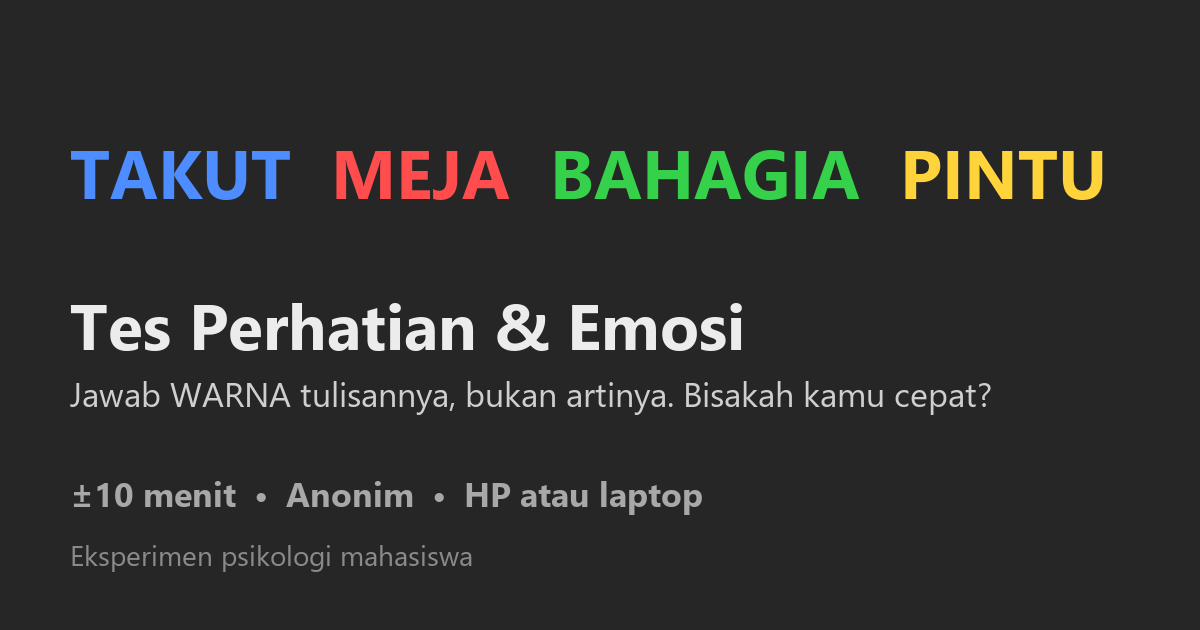
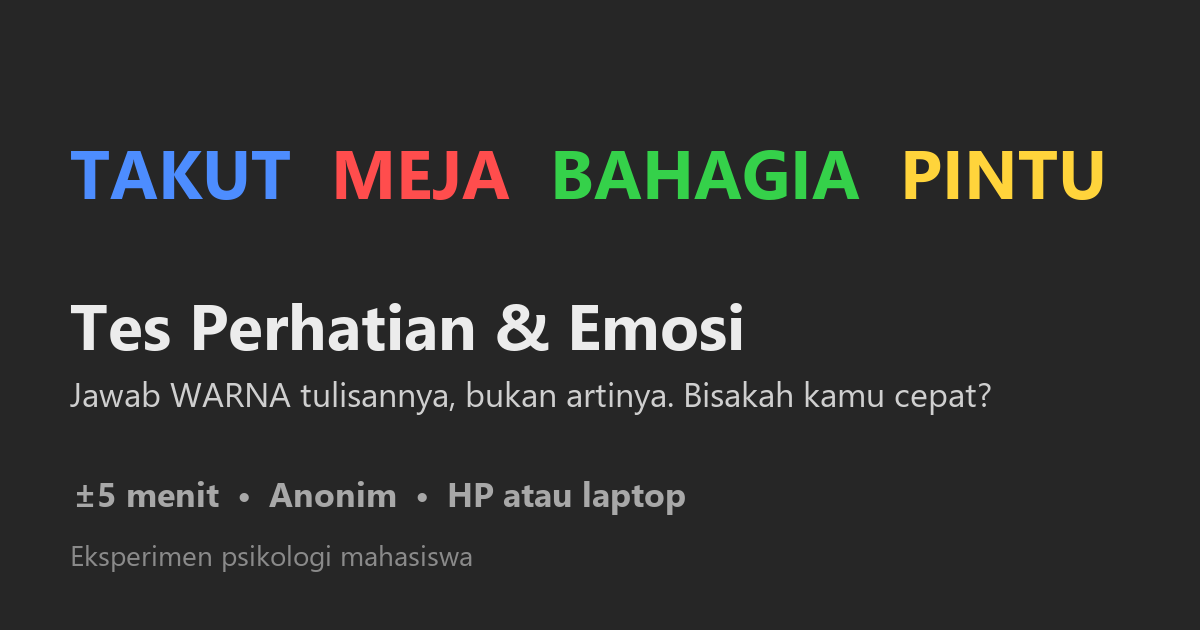
Shorten to 5 practice trials and one 60-trial session; show counts to participants

Changed region(s): [[0.0617, 0.754, 0.5858, 0.8143]]

diff --git a/js/experiment.js b/js/experiment.js
@@ -6,7 +6,7 @@
   const STIM = window.STIMULI;
   const params = new URLSearchParams(window.location.search);
 
-  // ?test=1 -> short version (4 trials per block, 4 practice); data downloaded locally
+  // ?test=1 -> short version (4 practice, 6 test trials); data downloaded locally
   const TEST_MODE = params.get("test") === "1";
   const USE_PIPE = !!CFG.DATAPIPE_EXPERIMENT_ID && !TEST_MODE;
 
@@ -17,8 +17,9 @@
   let INPUT = params.get("input") === "touch" || params.get("input") === "keyboard" ? params.get("input") : DETECTED;
 
   const N_PRACTICE = TEST_MODE ? 4 : CFG.PRACTICE_TRIALS;
-  const N_BLOCK = TEST_MODE ? 4 : 60;
-  const TOTAL_STEPS = 8 + N_PRACTICE + 2 * N_BLOCK; // pages + trials, for the progress bar
+  const N_TEST = TEST_MODE ? 6 : 60; // 20 words x 3 valences, each shown once
+  const TOTAL_STEPS = 7 + N_PRACTICE + N_TEST; // pages + trials, for the progress bar
+  const PASS_N = Math.ceil(CFG.PRACTICE_PASS_ACCURACY * N_PRACTICE); // correct answers needed
   let stepsDone = 0;
 
   const jsPsych = initJsPsych({
@@ -106,22 +107,20 @@
     data: Object.assign({ valence: valence }, extra),
   });
 
-  // Main task: each word shown twice, once per block, in two different colours.
+  // Main task: one session of 60 trials, each word shown once.
   // Words are shuffled per participant, so the word-colour pairing is random,
-  // while colour counts stay balanced (5 per colour, per category, per block).
-  const blocks = [[], []];
+  // while colour counts stay balanced (5 per colour per valence category).
+  const testItems = [];
   Object.keys(STIM).forEach((valence) => {
     R.shuffle(STIM[valence]).forEach((w, i) => {
-      blocks[0].push({ word: w, valence: valence, color: COLORS[i % 4].name });
-      blocks[1].push({ word: w, valence: valence, color: COLORS[(i + 2) % 4].name });
+      testItems.push({ word: w, valence: valence, color: COLORS[i % 4].name });
     });
   });
-  const blockTrials = (b) =>
-    R.shuffle(blocks[b])
-      .slice(0, N_BLOCK)
-      .map((t) => stroop(t.word, t.valence, t.color, { task: "test", block: b + 1 }));
+  const testTrials = R.shuffle(testItems)
+    .slice(0, N_TEST)
+    .map((t) => stroop(t.word, t.valence, t.color, { task: "test", block: 1 }));
 
-  // Practice: XXXXX strings, each colour equally often, with feedback; repeated once if < 75% correct.
+  // Practice: XXXXX strings in all colours, with feedback; repeated once if accuracy is below the pass level.
   let practiceRuns = 0;
   const practiceLoop = {
     timeline: [
@@ -146,7 +145,7 @@
         <h1>Tes Perhatian &amp; Emosi</h1>
         <p class="muted">Kata-kata berwarna akan muncul di layar. Tugas Anda sederhana: jawab <b>warnanya</b> secepat mungkin. Kedengarannya mudah&hellip;</p>
         <div class="facts">
-          <div class="fact"><b>&plusmn;10 menit</b><span>sekali jalan, tanpa jeda panjang</span></div>
+          <div class="fact"><b>&plusmn;5 menit</b><span>${N_PRACTICE} soal latihan + ${N_TEST} soal utama</span></div>
           <div class="fact"><b>Anonim</b><span>tanpa nama, email, atau nomor HP</span></div>
           <div class="fact"><b>Semua perangkat</b><span>HP, tablet, laptop, atau PC</span></div>
         </div>
@@ -170,7 +169,7 @@
         <h2>Persetujuan ikut serta</h2>
         <p>Penelitian ini dilakukan oleh <b>${CFG.RESEARCHER_NAME}</b> (${CFG.INSTITUTION}) untuk mempelajari <b>perhatian dan emosi</b>.</p>
         <ul class="clean">
-          <li>Anda akan menjawab warna kata-kata, lalu mengisi kuesioner singkat (7 pertanyaan).</li>
+          <li>Anda akan menjawab warna kata-kata (${N_PRACTICE} soal latihan dan ${N_TEST} soal utama), lalu mengisi kuesioner singkat (7 pertanyaan).</li>
           <li>Beberapa kata bermuatan emosi, misalnya tentang rasa takut atau kesedihan. Semuanya kata sehari-hari.</li>
           <li>Data bersifat <b>anonim</b> dan hanya dilaporkan secara kelompok untuk keperluan ilmiah.</li>
           <li>Partisipasi sukarela. Anda boleh berhenti kapan saja dengan menutup halaman.</li>
@@ -305,7 +304,8 @@
         <ul class="clean">
           <li>Sebelum setiap kata muncul tanda <b>+</b>. Arahkan pandangan ke sana.</li>
           <li>Jawab <b>secepat dan setepat mungkin</b>. Kesalahan sesekali itu wajar.</li>
-          <li>Pertama ada <b>latihan singkat</b> dengan tulisan XXXXX dan umpan balik benar/salah.</li>
+          <li>Pertama ada <b>${N_PRACTICE} soal latihan</b> dengan tulisan XXXXX dan umpan balik benar/salah. Jika kurang dari ${PASS_N} yang benar, latihan diulang satu kali.</li>
+          <li>Setelah itu ada <b>${N_TEST} soal utama</b> (sekitar 2 menit) tanpa jeda.</li>
         </ul>
       </div>`),
     ],
@@ -325,27 +325,14 @@
         <p>Sekarang kata-katanya adalah <b>kata biasa</b>. Tetap abaikan artinya dan jawab <b>warna tulisannya</b>.</p>
         <ul class="clean">
           <li>Tidak ada lagi umpan balik.</li>
-          <li>Ada <b>2 bagian</b>, masing-masing sekitar 2 menit, dengan jeda di tengah.</li>
+          <li>Ada <b>${N_TEST} soal</b> dalam satu sesi, sekitar 2 menit, tanpa jeda.</li>
         </ul>
         ${INPUT === "touch" ? touchCaps() : keyCaps()}
       </div>`);
     },
-    choices: ["Mulai bagian 1"],
+    choices: ["Mulai"],
     button_html: btn("primary"),
     data: { task: "instructions" },
-  };
-
-  const breakScreen = {
-    type: jsPsychHtmlButtonResponse,
-    stimulus: shell(`<div class="card">
-      <p class="eyebrow">Bagian 1 dari 2 selesai</p>
-      <h2>Istirahat sejenak</h2>
-      <p>Bagus! Regangkan jari dan tarik napas. Lanjutkan saat Anda siap.</p>
-      <p class="muted">Ingat: jawab <b>warna tulisan</b> secepat dan setepat mungkin.</p>
-    </div>`),
-    choices: ["Lanjut ke bagian 2"],
-    button_html: btn("primary"),
-    data: { task: "break" },
   };
 
   // GAD-7 (Spitzer et al., 2006). Indonesian wording: replace with the validated
@@ -467,7 +454,7 @@
     on_load: () => {
       const msg = document.getElementById("share-msg");
       document.getElementById("share").onclick = async () => {
-        const text = "Ikut eksperimen psikologi singkat (±10 menit): jawab warna kata secepat mungkin!";
+        const text = "Ikut eksperimen psikologi singkat (±5 menit): jawab warna kata secepat mungkin!";
         try {
           if (navigator.share) {
             await navigator.share({ title: "Tes Perhatian & Emosi", text: text, url: studyUrl });
@@ -497,11 +484,8 @@
     instructions,
     practiceLoop,
     startTest,
-    countdown("Bagian 1"),
-    { timeline: blockTrials(0) },
-    breakScreen,
-    countdown("Bagian 2"),
-    { timeline: blockTrials(1) },
+    countdown("Tugas utama dimulai"),
+    { timeline: testTrials },
     fullscreenOff,
     gad7,
     addEnd,

diff --git a/index.html b/index.html
@@ -6,13 +6,13 @@
   <meta name="theme-color" content="#1d1f22">
   <meta name="apple-mobile-web-app-capable" content="yes">
   <meta name="mobile-web-app-capable" content="yes">
-  <title>Tes Perhatian &amp; Emosi (10 menit)</title>
+  <title>Tes Perhatian &amp; Emosi (5 menit)</title>
 
   <!-- Link preview on WhatsApp / Instagram / X / Facebook.
        Preview image and URL for the published site. -->
-  <meta name="description" content="Ikuti eksperimen psikologi singkat (±10 menit): jawab warna kata secepat mungkin. Anonim, bisa di HP atau laptop.">
+  <meta name="description" content="Ikuti eksperimen psikologi singkat (±5 menit): jawab warna kata secepat mungkin. Anonim, bisa di HP atau laptop.">
   <meta property="og:type" content="website">
-  <meta property="og:title" content="Tes Perhatian & Emosi | Eksperimen Psikologi 10 Menit">
+  <meta property="og:title" content="Tes Perhatian & Emosi | Eksperimen Psikologi 5 Menit">
   <meta property="og:description" content="Jawab warna kata secepat mungkin. Anonim, bisa di HP atau laptop. Bantu penelitian mahasiswa psikologi!">
   <meta property="og:image" content="https://irfankur.github.io/emotional-stroop/assets/share.png">
   <meta property="og:url" content="https://irfankur.github.io/emotional-stroop/">

diff --git a/js/config.js b/js/config.js
@@ -19,6 +19,6 @@ window.STUDY_CONFIG = {
   ITI_MAX_MS: 700,
   FEEDBACK_MS: 700,
 
-  PRACTICE_TRIALS: 16,
-  PRACTICE_PASS_ACCURACY: 0.75,
+  PRACTICE_TRIALS: 5,
+  PRACTICE_PASS_ACCURACY: 0.75, // 5 trials -> at least 4 correct
 };

diff --git a/README.md b/README.md
@@ -2,7 +2,7 @@
 
 A free online experiment built with **jsPsych 8**. It is hosted on **GitHub Pages**, and **DataPipe** saves each participant's data to **OSF**. It works on phones, tablets (portrait and landscape), laptops and PCs. The participant confirms how they will answer (**keyboard** A/S/K/L, or **touch** buttons), and the detected option is marked as recommended. Keyboard keys are always accepted, so tablets with keyboards and touch laptops also work. Each trial records which input was actually used (`response_source`).
 
-Session (~10 min): welcome → consent → device choice → demographics → instructions → 3-2-1 countdown → 16 practice trials (repeated once if accuracy < 75%) → 2 × 60 test trials with a break → GAD-7 → data saved (retries automatically; offers a backup download if the connection fails) → debrief with a "share with friends" button.
+Session (~5 min): welcome → consent → device choice → demographics → instructions → 3-2-1 countdown → 5 practice trials (repeated once if fewer than 4 are correct) → 60 test trials in one session (each word once, no break) → GAD-7 → data saved (retries automatically; offers a backup download if the connection fails) → debrief with a "share with friends" button.
 
 ```
 emotional-stroop/
@@ -27,7 +27,7 @@ python -m http.server 8765 --directory emotional-stroop
 
 Then open these in your browser:
 
-- `http://localhost:8765/?test=1` is a short version (4 trials per block). The CSV is **downloaded** to your computer instead of sent to OSF.
+- `http://localhost:8765/?test=1` is a short version (4 practice, 6 test trials). The CSV is **downloaded** to your computer instead of sent to OSF.
 - `http://localhost:8765/?test=1&input=touch` forces the phone layout.
 - `http://localhost:8765/` is the full version.
 
@@ -84,7 +84,7 @@ The exact screens may differ slightly; DataPipe's own docs are at https://pipe.j
 
 Caption template (Bahasa Indonesia):
 
-> 🧠 **Bantu penelitian psikologi, cuma ±10 menit!**
+> 🧠 **Bantu penelitian psikologi, cuma ±5 menit!**
 > Kamu akan melihat kata-kata berwarna dan menebak **warnanya** secepat mungkin. Kedengarannya gampang… coba saja! 😄
 > ✅ Anonim, tanpa nama/nomor HP
 > ✅ Bisa di HP atau laptop (laptop lebih disarankan)
@@ -104,7 +104,7 @@ In the OSF data component, there is one CSV per participant: *Files → select a
 |---|---|
 | `subject_id` | random participant code |
 | `task` | `consent`, `demographics`, `practice`, `test`, `gad7`, … |
-| `block` | 1 or 2 (test trials) |
+| `block` | always 1 (one test session) |
 | `word`, `valence` | stimulus word and `negatif` / `positif` / `netral` |
 | `color`, `response`, `correct` | ink colour, answer given, true/false |
 | `rt` | reaction time in ms (on `test` rows; on other rows it is the time spent on that page) |
